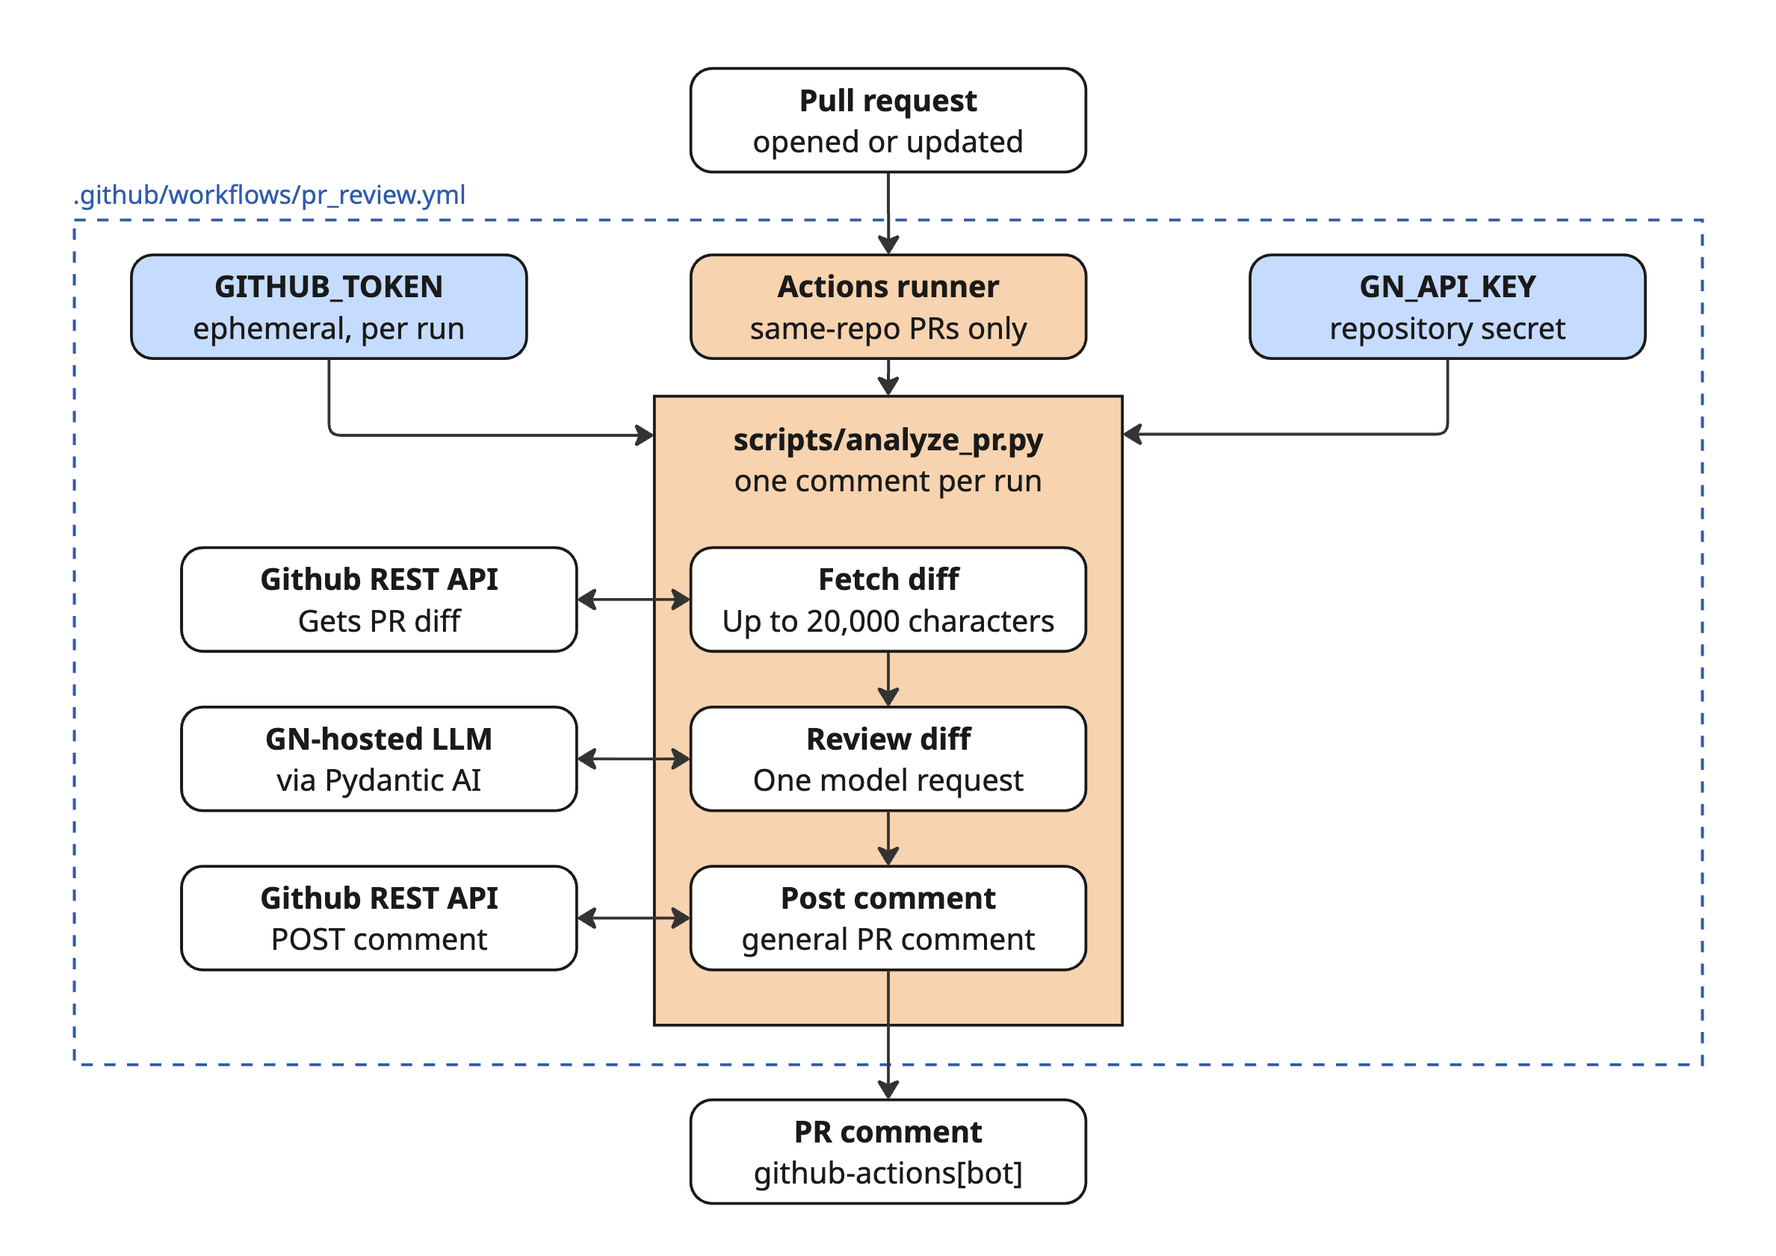
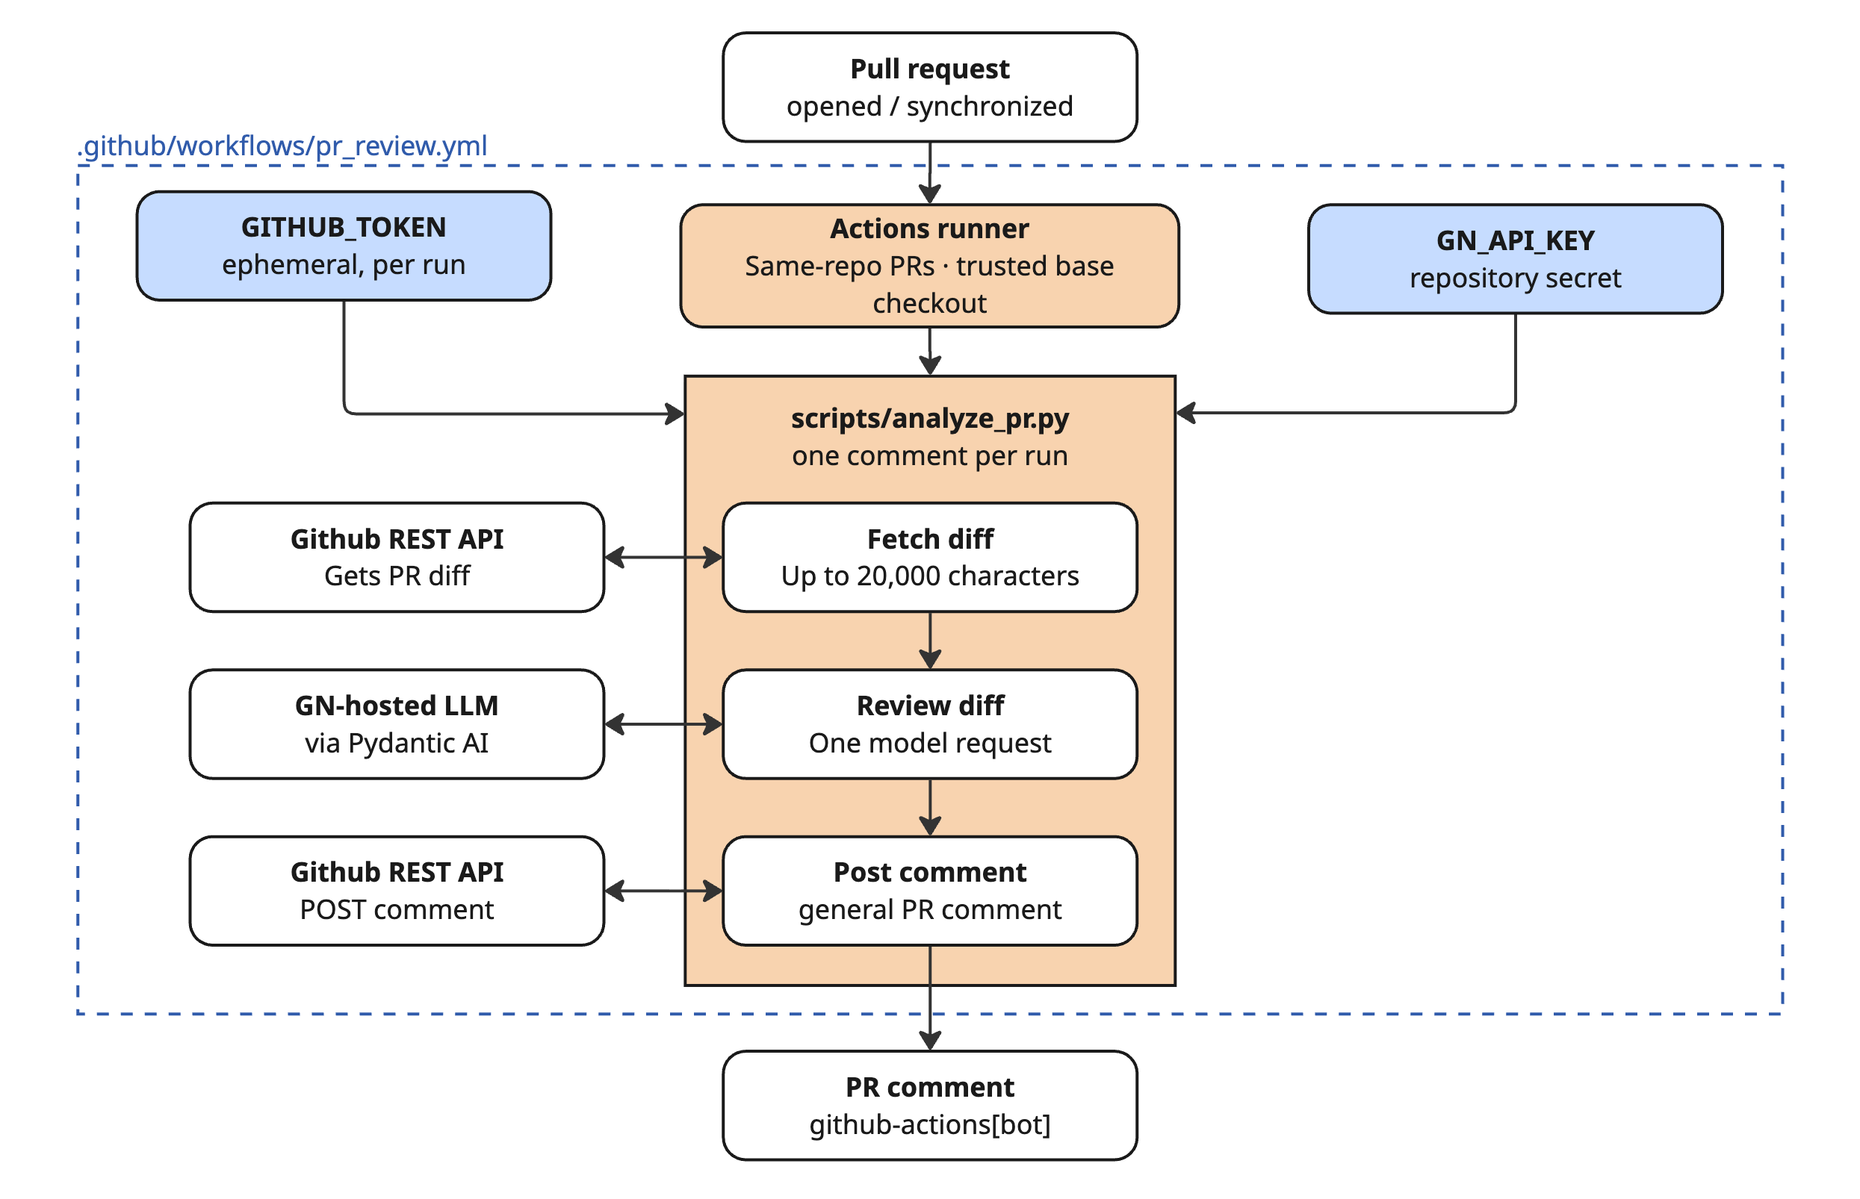
docs: readme + diagram clarity update

diff --git a/README.md b/README.md
@@ -2,11 +2,11 @@
 
 I prepared this project for GN's recruitment process, and I look forward to discussing it at the second interview! It includes a mock support-ticketing API, a natural-language agent, and an automated pull-request reviewer, as well as a Terraform skeleton.
 
-To try it, start with the [installation instructions](#local-setup). For the big picture, see the [architecture overview](#stack-and-architecture). The implementation details are in [Part 1: Ticketing API](#part-1-ticketing-api), [Part 2: GenAI agent](#part-2-natural-language-ticketing-agent), [Part 3: PR review bot](#part-3-automated-pr-review), [Part 4: Azure Terraform](#part-4-azure-terraform-skeleton), and [Part 5: Production design decision](#part-5-optional-production-design-decision).
+To try it, start with the [installation instructions](#local-setup). For the big picture, see the [architecture overview](#stack-and-architecture). The implementation details are in [Part 1: Ticketing API](#part-1-ticketing-api), [Part 2: GenAI agent](#part-2-natural-language-ticketing-agent), [Part 3: PR review bot](#part-3-automated-pr-review), [Part 4: Azure Terraform](#part-4-azure-terraform-skeleton), and [Part 5: Production design decision](#part-5-optional-production-considerations).
 
 ## Local setup
 
-**Prerequisites:** Git and an authorized GN API key for live agent use. The recommended setup uses [uv](https://docs.astral.sh/uv/getting-started/installation/), which can install a compatible Python version. If you don't have or prefer not to use uv, see [Alternative installation: pip](#install-with-pip). Local tests and the mock API do not require the GN key.
+**Prerequisites:** Git and an authorized GN API key for live agent use. The recommended setup uses [uv](https://docs.astral.sh/uv/getting-started/installation/), which can install a compatible Python version. If you don't have or prefer not to use uv, see [Alternative installation: pip](#install-with-pip). Local tests and the mock API do not require the GN API key.
 
 ### Install and run with uv
 
@@ -26,11 +26,12 @@ Start the API and agent together:
 uv run gn-ticketing
 ```
 
-If `OPENAI_API_KEY` is missing or still the example placeholder, the launcher asks for it with hidden input and saves it to `.env` for future runs. If `.env` does not exist, the launcher starts from `.env.example` so the other settings are included. The file is Git-ignored and restricted to your user account, but it stores the key as plaintext. The prompt requires an interactive terminal.
+If `OPENAI_API_KEY` is missing or still the example placeholder, the launcher asks for it with hidden input and saves it to `.env` for future runs. 
+- If `.env` does not exist, the launcher creates it from `.env.example`.
+- The file is Git-ignored and restricted to your user account, but it stores the key as plaintext. 
+- The prompt requires an interactive terminal.
 
-On Windows, use your terminal's Paste command for the hidden prompt; Ctrl+V may enter a control character instead. The launcher rejects that character and asks again. You can also paste the key directly into `.env`.
-
-Alternatively, create `.env` and add your authorized GN key before launching:
+Alternatively, manually create `.env` from `.env.example` and add your authorized GN key before launching:
 
 ```bash
 # macOS / Linux
@@ -42,13 +43,13 @@ cp .env.example .env
 Copy-Item .env.example .env
 ```
 
-The other settings are already in `.env.example`. Keep `.env` and credentials out of Git.
+Remaining settings (URLs, model selection, and conversation log toggling) are already in `.env.example`. Keep `.env` and credentials out of Git.
 
 The launcher starts FastAPI, waits for its health check, and opens the CLI. Type `exit` to stop both processes. Try `Create a ticket about a broken keyboard` or `List open tickets`. API docs are at <http://127.0.0.1:8000/docs> while it runs.
 
 Startup messages and HTTP tool logs (for example, `Sending POST request to /tickets` and `HTTP 201`) appear in the terminal alongside the agent's answer so the API interaction is easy to follow during this assessment. They are diagnostic output, not part of the agent's reply. In a production interface, these logs would be kept out of the user-facing conversation and routed to application logging instead.
 
-Run the checks with:
+Run checks with:
 
 ```bash
 uv run --extra dev python -m pytest
@@ -61,7 +62,7 @@ uv run --extra dev ruff format --check .
 
 ### Install with pip
 
-After cloning the repository, use Python 3.11 or newer to create a virtual environment. Upgrade pip inside it before installing the project; older pip versions cannot install this `pyproject.toml` project in editable mode.
+After cloning the repository, use Python 3.11 or newer when creating a virtual environment. Upgrade pip inside it before installing the project; older pip versions cannot install this `pyproject.toml` project in editable mode.
 
 **macOS / Linux (Bash or Zsh):**
 
@@ -85,7 +86,17 @@ py -3.11 -m venv --clear .venv
 .\.venv\Scripts\python.exe -m pip install -e ".[dev]"
 ```
 
-Create `.env` as shown above. Run `gn-ticketing` from the activated environment, or `.\.venv\Scripts\gn-ticketing.exe` on Windows without activation.
+Create `.env` as shown above. 
+
+Run with:
+
+```powershell
+# With the environment activated:
+gn-ticketing
+
+# On Windows, without activation:
+.\.venv\Scripts\gn-ticketing.exe
+```
 
 </details>
 
@@ -116,29 +127,18 @@ uv run python -m ticketing_system.agent.cli
 
 ## Status
 
-| Part | Implementation | Verification |
-| --- | --- | --- |
-| **1. Ticketing API** | FastAPI CRUD, filtering, validation (including required resolution notes), soft delete and restore | 23 API tests passed |
-| **2. GenAI agent** | Pydantic AI CLI with six HTTP-backed tools | 9 agent tests, 4 CLI tests; live GN scenarios demonstrated |
-| **3. PR review bot** | GitHub Actions + Python + Pydantic AI; posts one review comment per run | 7 tests passed; [PR #1 successfully reviewed](https://github.com/leeonora/gn-ticketing-agent/pull/1) |
-| **4. Azure Terraform** | Resource group, Linux App Service plan, and Linux Web App | `terraform init` and `terraform validate` succeeded (11 November 2026) |
+| Part                   | Implementation                                                                                     | Verification                                                                                         |
+| ---------------------- | -------------------------------------------------------------------------------------------------- | ---------------------------------------------------------------------------------------------------- |
+| **1. Ticketing API**   | FastAPI CRUD, filtering, validation (including required resolution notes), soft delete and restore | 23 API tests passed                                                                                  |
+| **2. AI agent**        | Pydantic AI CLI with six HTTP-backed tools                                                         | 9 agent tests, 5 CLI tests; live GN scenarios demonstrated                                           |
+| **3. PR review bot**   | GitHub Actions + Python + Pydantic AI; posts one review comment per run                            | 7 tests passed; [PR #1 successfully reviewed](https://github.com/leeonora/gn-ticketing-agent/pull/1) |
+| **4. Azure Terraform** | Resource group, Linux App Service plan, and Linux Web App                                          | `terraform init` and `terraform validate` succeeded                                                  |
 
-**Latest local verification (11 November 2026): 50 tests passed**, Ruff lint and formatting checks passed.
+**Latest local verification (12 November 2026): 50 tests passed**, Ruff lint and formatting checks passed.
 
 ## Stack and architecture
 
 Python 3.11+, FastAPI, Pydantic, Uvicorn, HTTPX, Pydantic AI (`pydantic-ai-slim[openai]`), OpenAI-compatible GN endpoint, pytest, and Ruff.
-
-```text
-User → CLI → Pydantic AI / GN LLM → registered HTTP tools → FastAPI → in-memory tickets
-                         ↑                      ↓
-                  tool results ← HTTP responses (including 404/409/422)
-
-Pull request → GitHub Actions → scripts/analyze_pr.py
-                               ├─ fetch diff (GitHub REST API)
-                               ├─ review diff (Pydantic AI / GN LLM)
-                               └─ post PR comment (GitHub REST API)
-```
 
 The ticketing agent selects tools, but **ticket operations are performed through HTTP** rather than accessing the ticket store directly. FastAPI enforces validation and returns errors for the agent to explain to users.
 
@@ -146,10 +146,12 @@ The ticketing agent selects tools, but **ticket operations are performed through
 
 ![Ticketing agent architecture](docs/diagrams/architecture_ticketing_agent.png)
 
+_Created with_ [_Miro_](https://miro.com/)_._
 ### PR review agent architecture
 
 ![PR review agent architecture](docs/diagrams/architecture_PR_agent.png)
 
+_Created with_ [_Miro_](https://miro.com/)_._
 ## Part 1: Ticketing API
 
 | Method | Endpoint | Purpose |
@@ -162,9 +164,13 @@ The ticketing agent selects tools, but **ticket operations are performed through
 | `DELETE` | `/tickets/{id}` | Soft-delete (`204`) |
 | `POST` | `/tickets/{id}/restore` | Restore deleted ticket (`200`) |
 
-Tickets contain `id`, `title`, `description`, UTC `created`, `status`, `resolution`, and `deleted`. Status must be `OPEN`, `RESOLVED`, or `CLOSED` (invalid updates return **422**). Missing/deleted tickets return **404** on normal operations; restoring an active ticket returns **409**. **Resolution notes are required for `RESOLVED` tickets:** a ticket cannot be updated to `RESOLVED` without a non-empty, non-whitespace resolution note. An existing valid note may be retained on a later update. Missing or blank notes return **422** with a clear error message. Updates are validated before saving so invalid changes do not partially apply.
-
-Deletion sets `deleted=true`, hides the ticket from normal retrieval/listing, and allows restoration with its original data. **Storage is in memory**: restarting the server loses active and deleted tickets alike.
+- Tickets contain `id`, `title`, `description`, UTC `created`, `status`, `resolution`, and `deleted`. 
+- Status must be `OPEN`, `RESOLVED`, or `CLOSED` (invalid updates return **422**). 
+- Missing/deleted tickets return **404** on normal operations; restoring an active ticket returns **409**.
+- Resolution notes: Resolving a ticket requires a non-empty resolution note (either provided in the request or already present). Missing or blank notes return `422`.
+- Updates are validated before saving so invalid changes do not partially apply.
+- Deletion sets `deleted=true`, hides the ticket from normal retrieval/listing, and allows restoration with its original data. 
+- **Storage is in memory**: restarting the server loses active and deleted tickets alike.
 
 Example API requests (no LLM usage):
 
@@ -190,50 +196,59 @@ The failed update leaves the ticket unchanged.
 
 ## Part 2: Natural-language ticketing agent
 
-The CLI's Pydantic AI agent registers six HTTPX-backed tools: `list_tickets`, `get_ticket`, `create_ticket`, `update_ticket`, `delete_ticket`, and `restore_ticket`. Tool results contain success/error status and actual API error details (including missing resolution notes); the agent can explain these to the user instead of inventing a successful operation.
+The CLI's Pydantic AI agent registers six HTTPX-backed tools: 
 
-HTTP tool calls have a 10-second timeout. Connection failures and timeouts return clear errors, while common language-model failures show a retry message in the CLI instead of raw exception text. Write operations are not retried automatically because a timed-out request may already have succeeded.
+- `list_tickets`
+- `get_ticket`
+- `create_ticket`
+- `update_ticket`
+- `delete_ticket`
+- `restore_ticket`
 
-**Live GN verification (9 November 2026):** All six required assessment scenarios succeeded: create a keyboard ticket, list open tickets, retrieve details, reject `PROGRESS` with valid statuses, resolve with a note, and report a nonexistent ticket (`404`).
+The agent interprets API errors (e.g., `404`, `422`) and provides actionable feedback. Timeouts, connection failures, and LLM errors are handled gracefully, without automatically retrying write operations.
 
-**Live GN verification (10 November 2026):** In one multi-turn conversation, the agent created a ticket, soft-deleted it after “Delete that ticket,” and restored it after “Actually, can you undo that?” Direct API retrieval confirmed `deleted=false`. These were live LLM/API interactions; repeatable tests use mocks instead.
+**Live GN verification (9–10 November 2026):**
+
+- All six required assessment scenarios passed, including invalid statuses, missing tickets, and resolution notes.
+- Multi-turn context was verified: the agent created, deleted, and restored a ticket using conversational follow-ups.
+- Live results were verified against the API; automated tests use mocks.
 
 ## Part 3: Automated PR review
 
-On pull requests **opened** or **synchronized**, `.github/workflows/pr_review.yml` runs `scripts/analyze_pr.py` from the trusted base revision. The script retrieves the PR diff through GitHub's API, sends it to a dedicated Pydantic AI reviewer using GN's model, and posts **one general PR comment per successful execution** with a summary and suggestions. The PR's files are treated as review input and are not executed in the secret-bearing job.
+A **GitHub Actions workflow** (`pr_review.yml`) triggers when a pull request is opened or updated. It runs `scripts/analyze_pr.py`, which uses a Pydantic AI reviewer and GN's model to analyze the PR diff and post a single comment with a summary and suggested improvements.
 
-**To configure GitHub Actions:** In repository **Settings → Secrets and variables → Actions**, create a repository secret called `GN_API_KEY` containing the authorized GN key. The workflow receives `GITHUB_TOKEN` from GitHub automatically; no personal GitHub token is required. It is limited to **same-repository PRs** (not forks), with `contents: read` and `pull-requests: write` permissions. The workflow installs dependencies with `python -m pip install -e ".[dev]"`.
+**Setup:** Add `GN_API_KEY` under **Settings → Secrets and variables → Actions**. GitHub provides `GITHUB_TOKEN` automatically.
 
-**Earlier end-to-end verification:** [Pull request #1](https://github.com/leeonora/gn-ticketing-agent/pull/1) ran the previous workflow successfully and received an automated comment from `github-actions[bot]`. The trusted-base checkout change has passed local checks but has not yet been verified in a GitHub Actions run.
+**Verification:** [PR #1](https://github.com/leeonora/gn-ticketing-agent/pull/1) successfully received an automated review. The subsequent security improvement (trusted-base checkout) passed local checks but has not yet been tested in GitHub Actions, as the service was down at the time of development.
 
-The reviewer limits input to the first **20,000 characters** of the diff and to **one model request per run**. Very large diffs may be reviewed only partially; new workflow runs create new comments rather than updating an earlier one. Model-generated feedback is advisory.
+**Safeguards:** Only same-repository PRs are reviewed. PR code is not executed, the diff is limited to 20,000 characters, and the reviewer makes one model request per run.
 
 ## Part 4: Azure Terraform skeleton
 
-The `infra/` directory defines a minimal potential Azure hosting setup for the Part 1 FastAPI service:
+The `infra/` directory defines a minimal, validated Terraform configuration describing how the FastAPI service could be hosted on Azure, using three resources:
 
-| Resource | Purpose |
-| --- | --- |
-| Azure resource group | Groups the application's Azure resources |
-| Linux App Service plan (`B1`) | Provides compute capacity for a Linux-hosted application |
-| Linux Web App (Python 3.13) | Defines where the FastAPI service could run |
+- **Resource group** – Organizes Azure resources.
+- **Linux App Service plan** (`B1`) – Provides compute capacity.
+- **Linux Web App (Python 3.13)** – Defines the application hosting environment.
 
-The configuration is split across `main.tf` (provider and resources), `variables.tf` (resource group name, region, web app name), and `outputs.tf` (the web app's HTTPS URL). The generated `.terraform.lock.hcl` records the selected AzureRM provider version.
+The configuration is organized into `main.tf`, `variables.tf`, and `outputs.tf`.
 
-**Validate locally** (Terraform CLI required; no Azure credentials or GN key needed):
+**Validate locally** (Terraform CLI required):
 
-```bash
+```
 cd infra
 terraform fmt -check
 terraform init
 terraform validate
 ```
 
-**Verified locally on 10 November 2026:** `terraform init` succeeded with AzureRM `v4.81.0`, and `terraform validate` reported `Success! The configuration is valid.` The `terraform fmt` command also ran without errors.
+**Verification (10 November 2026):** Initialization, formatting, and validation passed locally using AzureRM `v4.81.0`.
 
-**Scope:** This is infrastructure configuration only. It does not package or upload the Python application, install its dependencies in Azure, or define a deployment pipeline or startup command. No `terraform plan` or `terraform apply` was performed, and no Azure resources were created. A real deployment would require additional application deployment configuration and a globally unique Web App name; the current B1 plan would incur charges if provisioned.
+**Scope:** Infrastructure configuration only. No Azure resources were deployed, as deployment is not required by the assessment.
 
 ## Tests and code quality
+
+Run the automated tests and code quality checks:
 
 ```bash
 python -m pytest -v
@@ -253,14 +268,15 @@ python -m ruff format --check .
 
 ## Logging
 
-Console and rotating logs (`logs/ticketing.log`) record API/tool operations, HTTP status codes, elapsed times, and CLI execution/error events. Rotation uses **5 MiB per file with three backups**. The `logs/` directory is Git-ignored.
+API operations, HTTP responses, and CLI errors are recorded in console and rotating file logs (`logs/ticketing.log`). Logs are Git-ignored.
 
-`LOG_CONVERSATIONS=false` by default; set it to `true` in local `.env` to log user prompts and final responses. Only enable it with nonsensitive test data; previously captured text is not automatically erased when the setting is disabled. File logging is intended for local development, not multiprocess production logging.
+Conversation logging is disabled by default (`LOG_CONVERSATIONS=false`) and can be enabled in `.env` for nonsensitive test data.
 
-## Part 5 (optional): Production design decision
+File logging is intended for local development only.
+## Part 5 (optional): Production considerations
 
-The most important production change would be **persistent storage** with a defined deletion-retention policy: the current in-memory store loses all tickets on restart. Other production needs include authentication/authorization, audit trails, stronger observability, and safeguards around destructive actions. The optional assessment rule requiring resolution notes for resolved tickets **is implemented**.
+The most important production improvement would be replacing the in-memory ticket store with persistent database storage, ensuring tickets survive application restarts. This could be done while preserving the existing API contracts and error handling.
 
-**MCP server (Part 2 bonus):** The optional MCP integration was not implemented because the agent already interacts with the ticketing API through dedicated HTTP-backed tools. MCP could be introduced if interoperability with other MCP-compatible clients becomes a requirement.
+Additional improvements could include authentication, audit logging, and a React frontend for a more accessible user experience.
 
-**Azure deployment (Part 4):** The Terraform configuration was intentionally not deployed because the assessment requires valid infrastructure definitions, not provisioned cloud resources. `terraform init` and `terraform validate` succeeded locally. Avoiding deployment keeps the solution within scope and prevents unnecessary cloud costs.
+**MCP bonus:** Not implemented, as the agent already communicates with the API through dedicated HTTP-backed tools. MCP could be added if interoperability with other clients becomes necessary.
